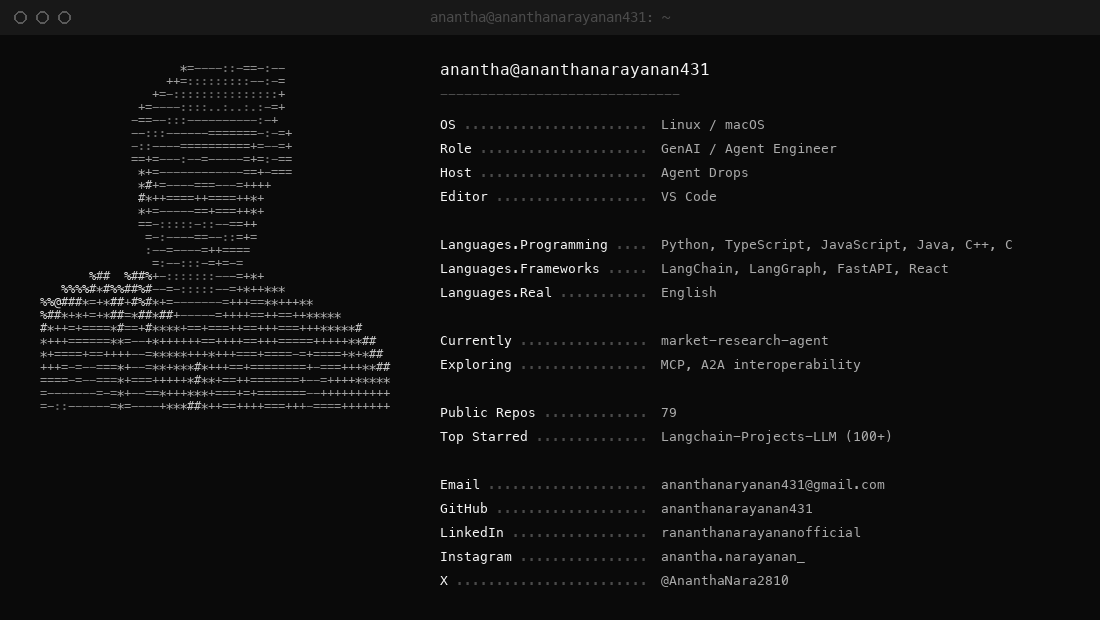
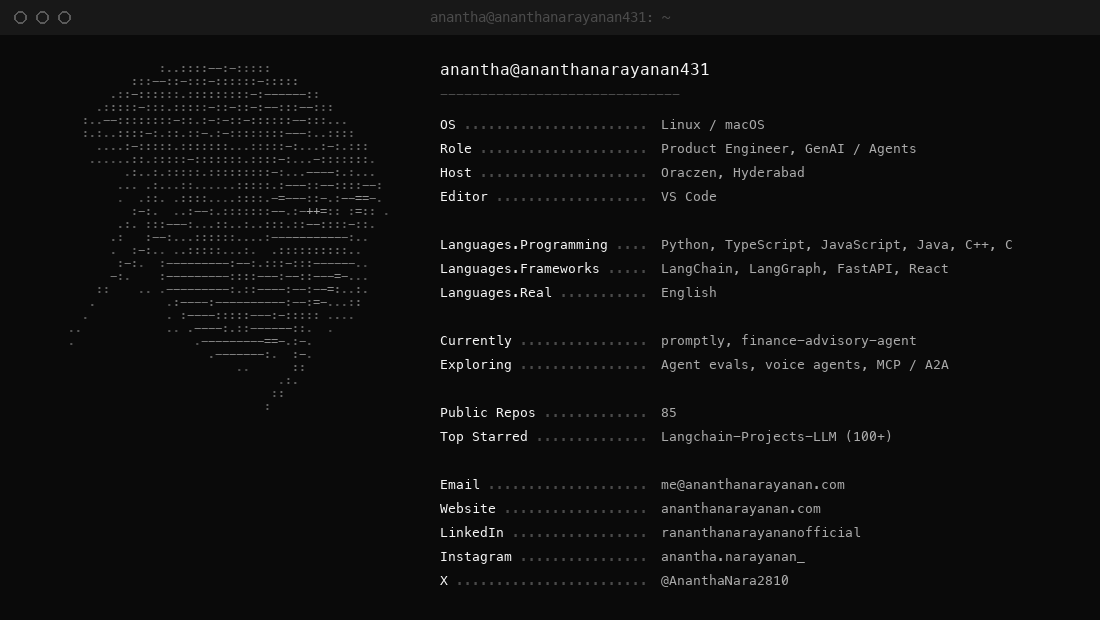
docs: refresh profile README and neofetch card with current role and projects
Update role to Product Engineer at Oraczen, bump repo count to 85,
refresh Currently Building with active projects, add website and
email links, and fix the email typo on the neofetch card.

diff --git a/scripts/generate_neofetch.py b/scripts/generate_neofetch.py
@@ -96,22 +96,22 @@ def main():
 
     rows = [
         ("OS", "Linux / macOS"),
-        ("Role", "GenAI / Agent Engineer"),
-        ("Host", "Agent Drops"),
+        ("Role", "Product Engineer, GenAI / Agents"),
+        ("Host", "Oraczen, Hyderabad"),
         ("Editor", "VS Code"),
         ("", ""),
         ("Languages.Programming", "Python, TypeScript, JavaScript, Java, C++, C"),
         ("Languages.Frameworks", "LangChain, LangGraph, FastAPI, React"),
         ("Languages.Real", "English"),
         ("", ""),
-        ("Currently", "market-research-agent"),
-        ("Exploring", "MCP, A2A interoperability"),
+        ("Currently", "promptly, finance-advisory-agent"),
+        ("Exploring", "Agent evals, voice agents, MCP / A2A"),
         ("", ""),
-        ("Public Repos", "79"),
+        ("Public Repos", "85"),
         ("Top Starred", "Langchain-Projects-LLM (100+)"),
         ("", ""),
-        ("Email", "ananthanaryanan431@gmail.com"),
-        ("GitHub", "ananthanarayanan431"),
+        ("Email", "me@ananthanarayanan.com"),
+        ("Website", "ananthanarayanan.com"),
         ("LinkedIn", "rananthanarayananofficial"),
         ("Instagram", "anantha.narayanan_"),
         ("X", "@AnanthaNara2810"),

diff --git a/README.md b/README.md
@@ -1,12 +1,13 @@
 ## 🧠 About Me
 
-I'm an **AI/GenAI Engineer** who spends most of my time building autonomous agents, RAG pipelines, and multi-agent systems — currently at **Agent Drops**. I like taking new protocols and frameworks (MCP, A2A, LangGraph, DSPy) apart to see how they work, then shipping small, focused projects with what I learn.
+I'm a **Product Engineer at [Oraczen](https://oraczen.ai)** in Hyderabad, building production AI systems: ReAct and multi-agent architectures with LangGraph, RAG pipelines, LLM-as-a-Judge evaluation, and real-time voice agents over WebRTC. Before that I was a Software Engineer at Launch Ventures. I like taking new protocols and frameworks (MCP, A2A, LangGraph, DSPy) apart to see how they work, then shipping small, focused projects with what I learn.
 
-- 🔭 Currently building **[market-research-agent](https://github.com/ananthanarayanan431/market-research-agent)** — an autonomous market research agent
-- 🌱 Exploring **MCP (Model Context Protocol)** and **A2A (Agent-to-Agent)** interoperability
-- 🧩 79 public repos spanning GenAI agents, RAG systems, full-stack apps, and hands-on ML fundamentals
+- 🔭 Currently building **[Promptly](https://github.com/ananthanarayanan431/promptly)**, a prompt optimization platform where a council of LLMs rewrites, peer-reviews, and synthesizes prompts
+- 🌱 Exploring agent evaluation, voice agents, and **MCP / A2A** interoperability
+- 🧩 85 public repos spanning GenAI agents, RAG systems, full-stack apps, and hands-on ML fundamentals
 - ✍ I write about what I build on [Medium](https://medium.com/@ananthanarayanan431)
-- 📫 Reach me on any of the socials below
+- 🌐 More about me at **[ananthanarayanan.com](https://ananthanarayanan.com)**
+- 📫 Reach me at [me@ananthanarayanan.com](mailto:me@ananthanarayanan.com) or on any of the socials below
 - ⚡ Fun fact: my most-starred repo is a LangChain project collection with 100+ ⭐
 
 <div align="center">
@@ -22,10 +23,11 @@ I'm an **AI/GenAI Engineer** who spends most of my time building autonomous agen
 
 | Project | Description |
 |---|---|
-| [market-research-agent](https://github.com/ananthanarayanan431/market-research-agent) | Autonomous agent for automated market research |
-| [a2a-mcp-project](https://github.com/ananthanarayanan431/a2a-mcp-project) | Agent-to-Agent communication over MCP |
-| [production-rag-application](https://github.com/ananthanarayanan431/production-rag-application) | Production-grade Retrieval-Augmented Generation app |
-| [cognee-project](https://github.com/ananthanarayanan431/cognee-project) | **DebateMind** — memory-driven reasoning agent |
+| [promptly](https://github.com/ananthanarayanan431/promptly) | **Promptly**: a 4-model council optimizes, blind-reviews, and synthesizes prompts, plus GEPA and SkillOpt optimizers |
+| [finance-advisory-agent](https://github.com/ananthanarayanan431/finance-advisory-agent) | Multi-agent market and financial research that turns a plain-English question into a cited report from web and SEC-filing sources |
+| [production-rag-application](https://github.com/ananthanarayanan431/production-rag-application) | Apple Support Bot: production RAG with FastAPI, LangGraph, PageIndex, and Ragas evals |
+| [ticket-assignment](https://github.com/ananthanarayanan431/ticket-assignment) | LangGraph support-ticket triage that classifies, then auto-resolves, drafts for review, or escalates |
+| [cognee-project](https://github.com/ananthanarayanan431/cognee-project) | **DebateMind**: an AI debate coach with per-user knowledge-graph memory (Cognee + Neo4j) |
 
 <br/>
 
@@ -37,7 +39,7 @@ I'm an **AI/GenAI Engineer** who spends most of my time building autonomous agen
 | [**deepresearch-agent**](https://github.com/ananthanarayanan431/deepresearch-agent) | ![Stars](https://img.shields.io/github/stars/ananthanarayanan431/deepresearch-agent?style=flat-square&label=) | Deep-research style autonomous agent |
 | [**CrewAI---Projects**](https://github.com/ananthanarayanan431/CrewAI---Projects) | ![Stars](https://img.shields.io/github/stars/ananthanarayanan431/CrewAI---Projects?style=flat-square&label=) | Multi-agent projects built with CrewAI |
 | [**LangGraph-Projects**](https://github.com/ananthanarayanan431/LangGraph-Projects) | ![Stars](https://img.shields.io/github/stars/ananthanarayanan431/LangGraph-Projects?style=flat-square&label=) | Multi-agent AI framework built with LangGraph |
-| [**promptly**](https://github.com/ananthanarayanan431/promptly) | ![Stars](https://img.shields.io/github/stars/ananthanarayanan431/promptly?style=flat-square&label=) | Prompt engineering / management tool |
+| [**promptly**](https://github.com/ananthanarayanan431/promptly) | ![Stars](https://img.shields.io/github/stars/ananthanarayanan431/promptly?style=flat-square&label=) | Prompt optimization platform with a multi-LLM council |
 | [**Gemini-ChatBot-LLM**](https://github.com/ananthanarayanan431/Gemini-ChatBot-LLM) | ![Stars](https://img.shields.io/github/stars/ananthanarayanan431/Gemini-ChatBot-LLM?style=flat-square&label=) | Chatbot built on Google's Gemini model |
 
 <br/>
@@ -113,6 +115,8 @@ I'm an **AI/GenAI Engineer** who spends most of my time building autonomous agen
 
 <div align="center">
 
+[![Website](https://img.shields.io/badge/Website-000000?logo=googlechrome&logoColor=white)](https://ananthanarayanan.com)
+[![Email](https://img.shields.io/badge/Email-D14836?logo=gmail&logoColor=white)](mailto:me@ananthanarayanan.com)
 [![Instagram](https://img.shields.io/badge/Instagram-%23E4405F.svg?logo=Instagram&logoColor=white)](https://instagram.com/anantha.narayanan_)
 [![LinkedIn](https://img.shields.io/badge/LinkedIn-%230077B5.svg?logo=linkedin&logoColor=white)](https://linkedin.com/in/rananthanarayananofficial)
 [![Medium](https://img.shields.io/badge/Medium-12100E?logo=medium&logoColor=white)](https://medium.com/@ananthanarayanan431)
